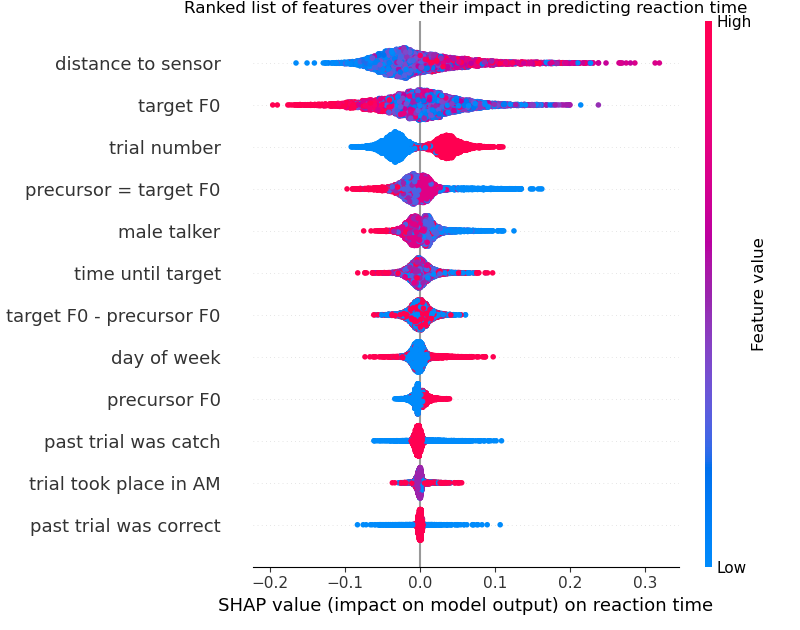
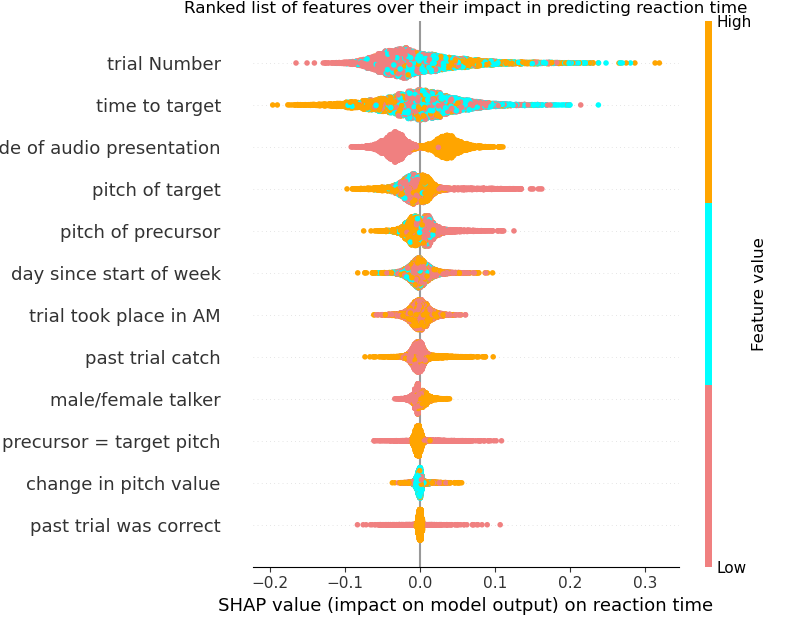
cleaning reactiontimemodel.py

diff --git a/reactiontimemodel.py b/reactiontimemodel.py
@@ -185,7 +185,15 @@ def runlgbreleasetimes(X, y, paramsinput=None):
     shap_values = shap.TreeExplainer(xg_reg).shap_values(X)
     fig, ax = plt.subplots(figsize=(15, 15))
     # title kwargs still does nothing so need this workaround for summary plots
-    shap.summary_plot(shap_values, X, show=False)
+
+    #introduce cmap
+    custom_colors = ['lightcoral', "cyan", "orange"]  # Add more colors as needed
+    # cmapcustom = matplotlib.colors.ListedColormap(custom_colors)
+    cmapcustom = mcolors.LinearSegmentedColormap.from_list('my_custom_cmap', custom_colors, N=1000)
+    custom_colors_summary = ['lightcoral', "cyan", "orange"]  # Add more colors as needed
+    cmapsummary = matplotlib.colors.ListedColormap(custom_colors_summary)
+
+    shap.summary_plot(shap_values, X, show=False, cmap = cmapsummary)
     fig, ax = plt.gcf(), plt.gca()
     plt.title('Ranked list of features over their impact in predicting reaction time')
     plt.xlabel('SHAP value (impact on model output) on reaction time')
